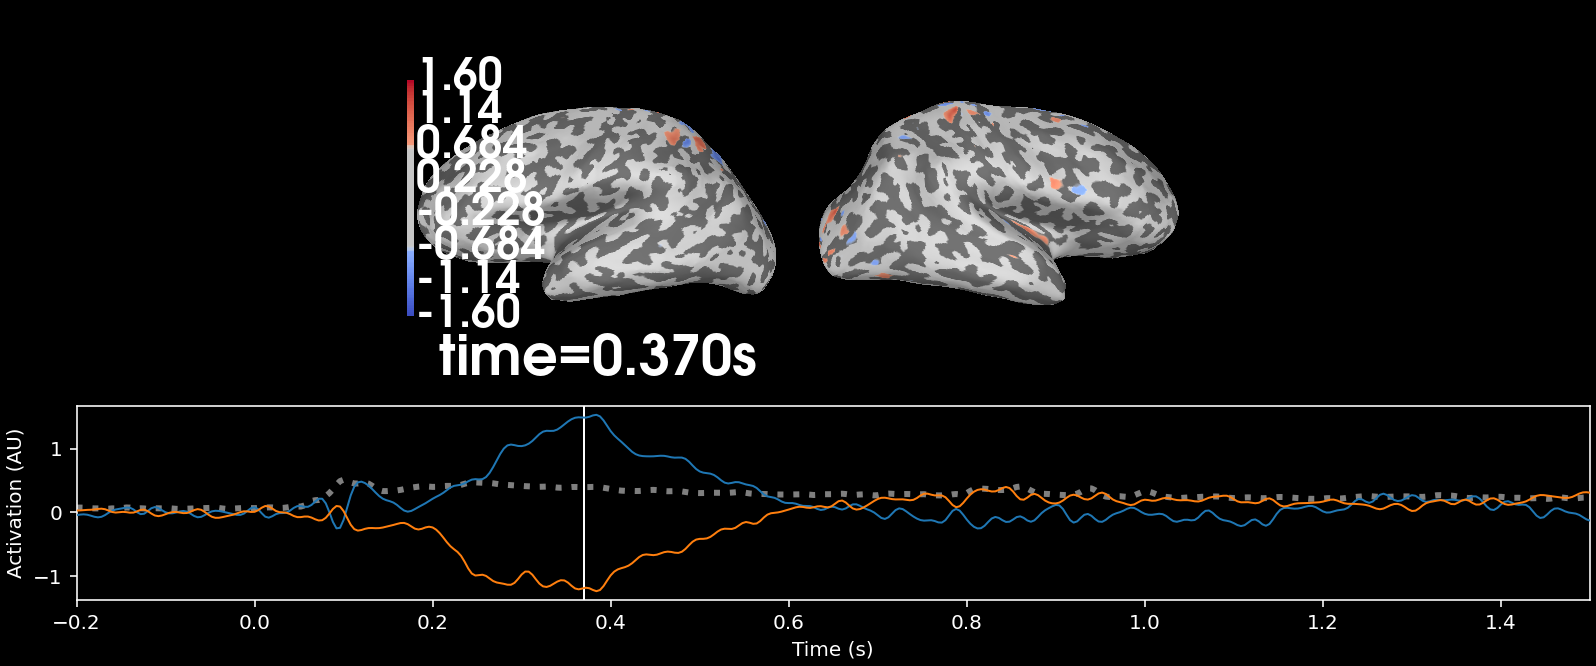
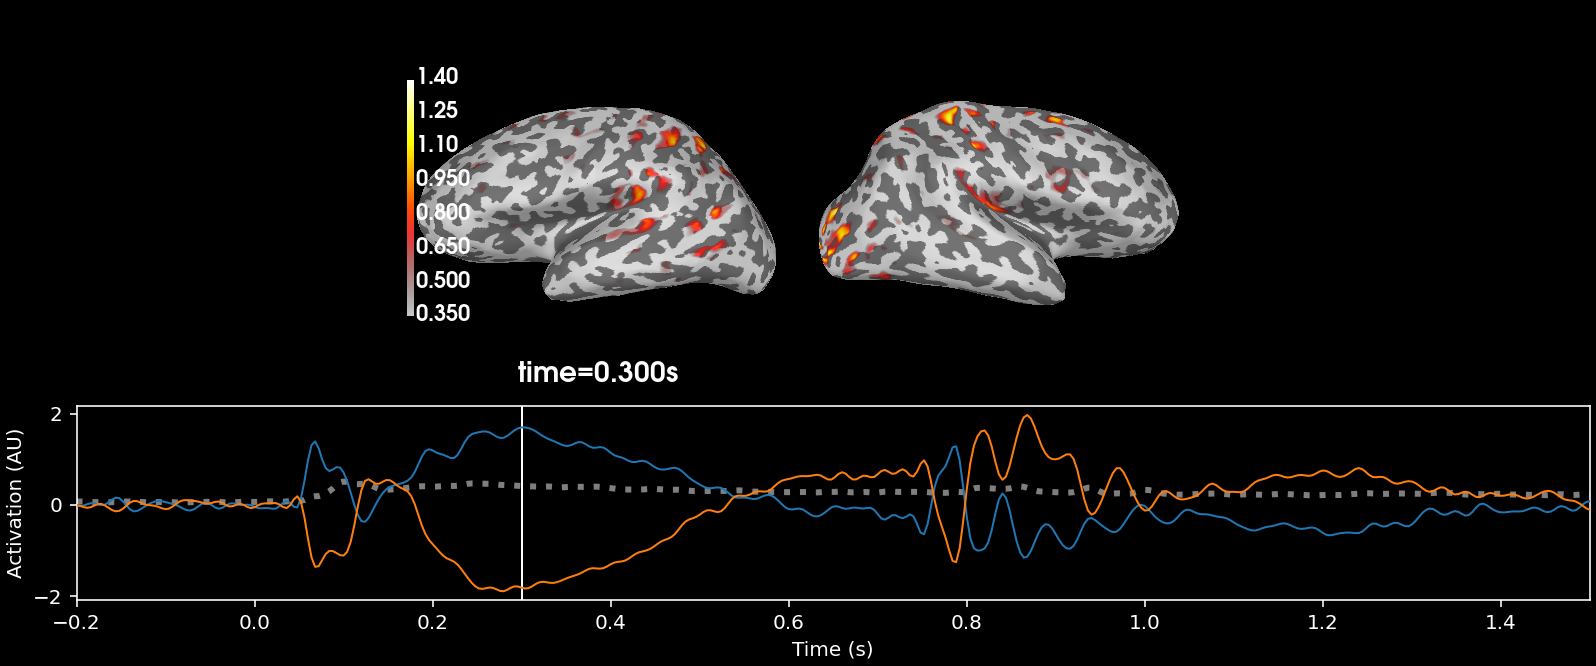
add new contrast results

diff --git a/src/contrast.py b/src/contrast.py
@@ -76,17 +76,15 @@ def plot_stcs(stcs, subjects_dir, subject="0108", savepath=None):
     mean_stcs = np.mean(stcs)
 
     # plot params
-    #clim = dict(kind='value', pos_lims=[0, 0.37, 0.75])
-    clim = dict(kind='percent', lims=[10, 60, 90])
+    clim = dict(kind='value', lims=[0.35, 0.85, 1.4])
     plot = mean_stcs.plot(
-        initial_time=0.37,
+        initial_time=0.30,
         subjects_dir=subjects_dir,
         subject=subject,
         hemi='split',
         size = (800, 400),
         views = ["lateral"],
-        colormap='coolwarm', 
-        #clim=clim,
+        clim=clim
     )
 
     if savepath is not None:
